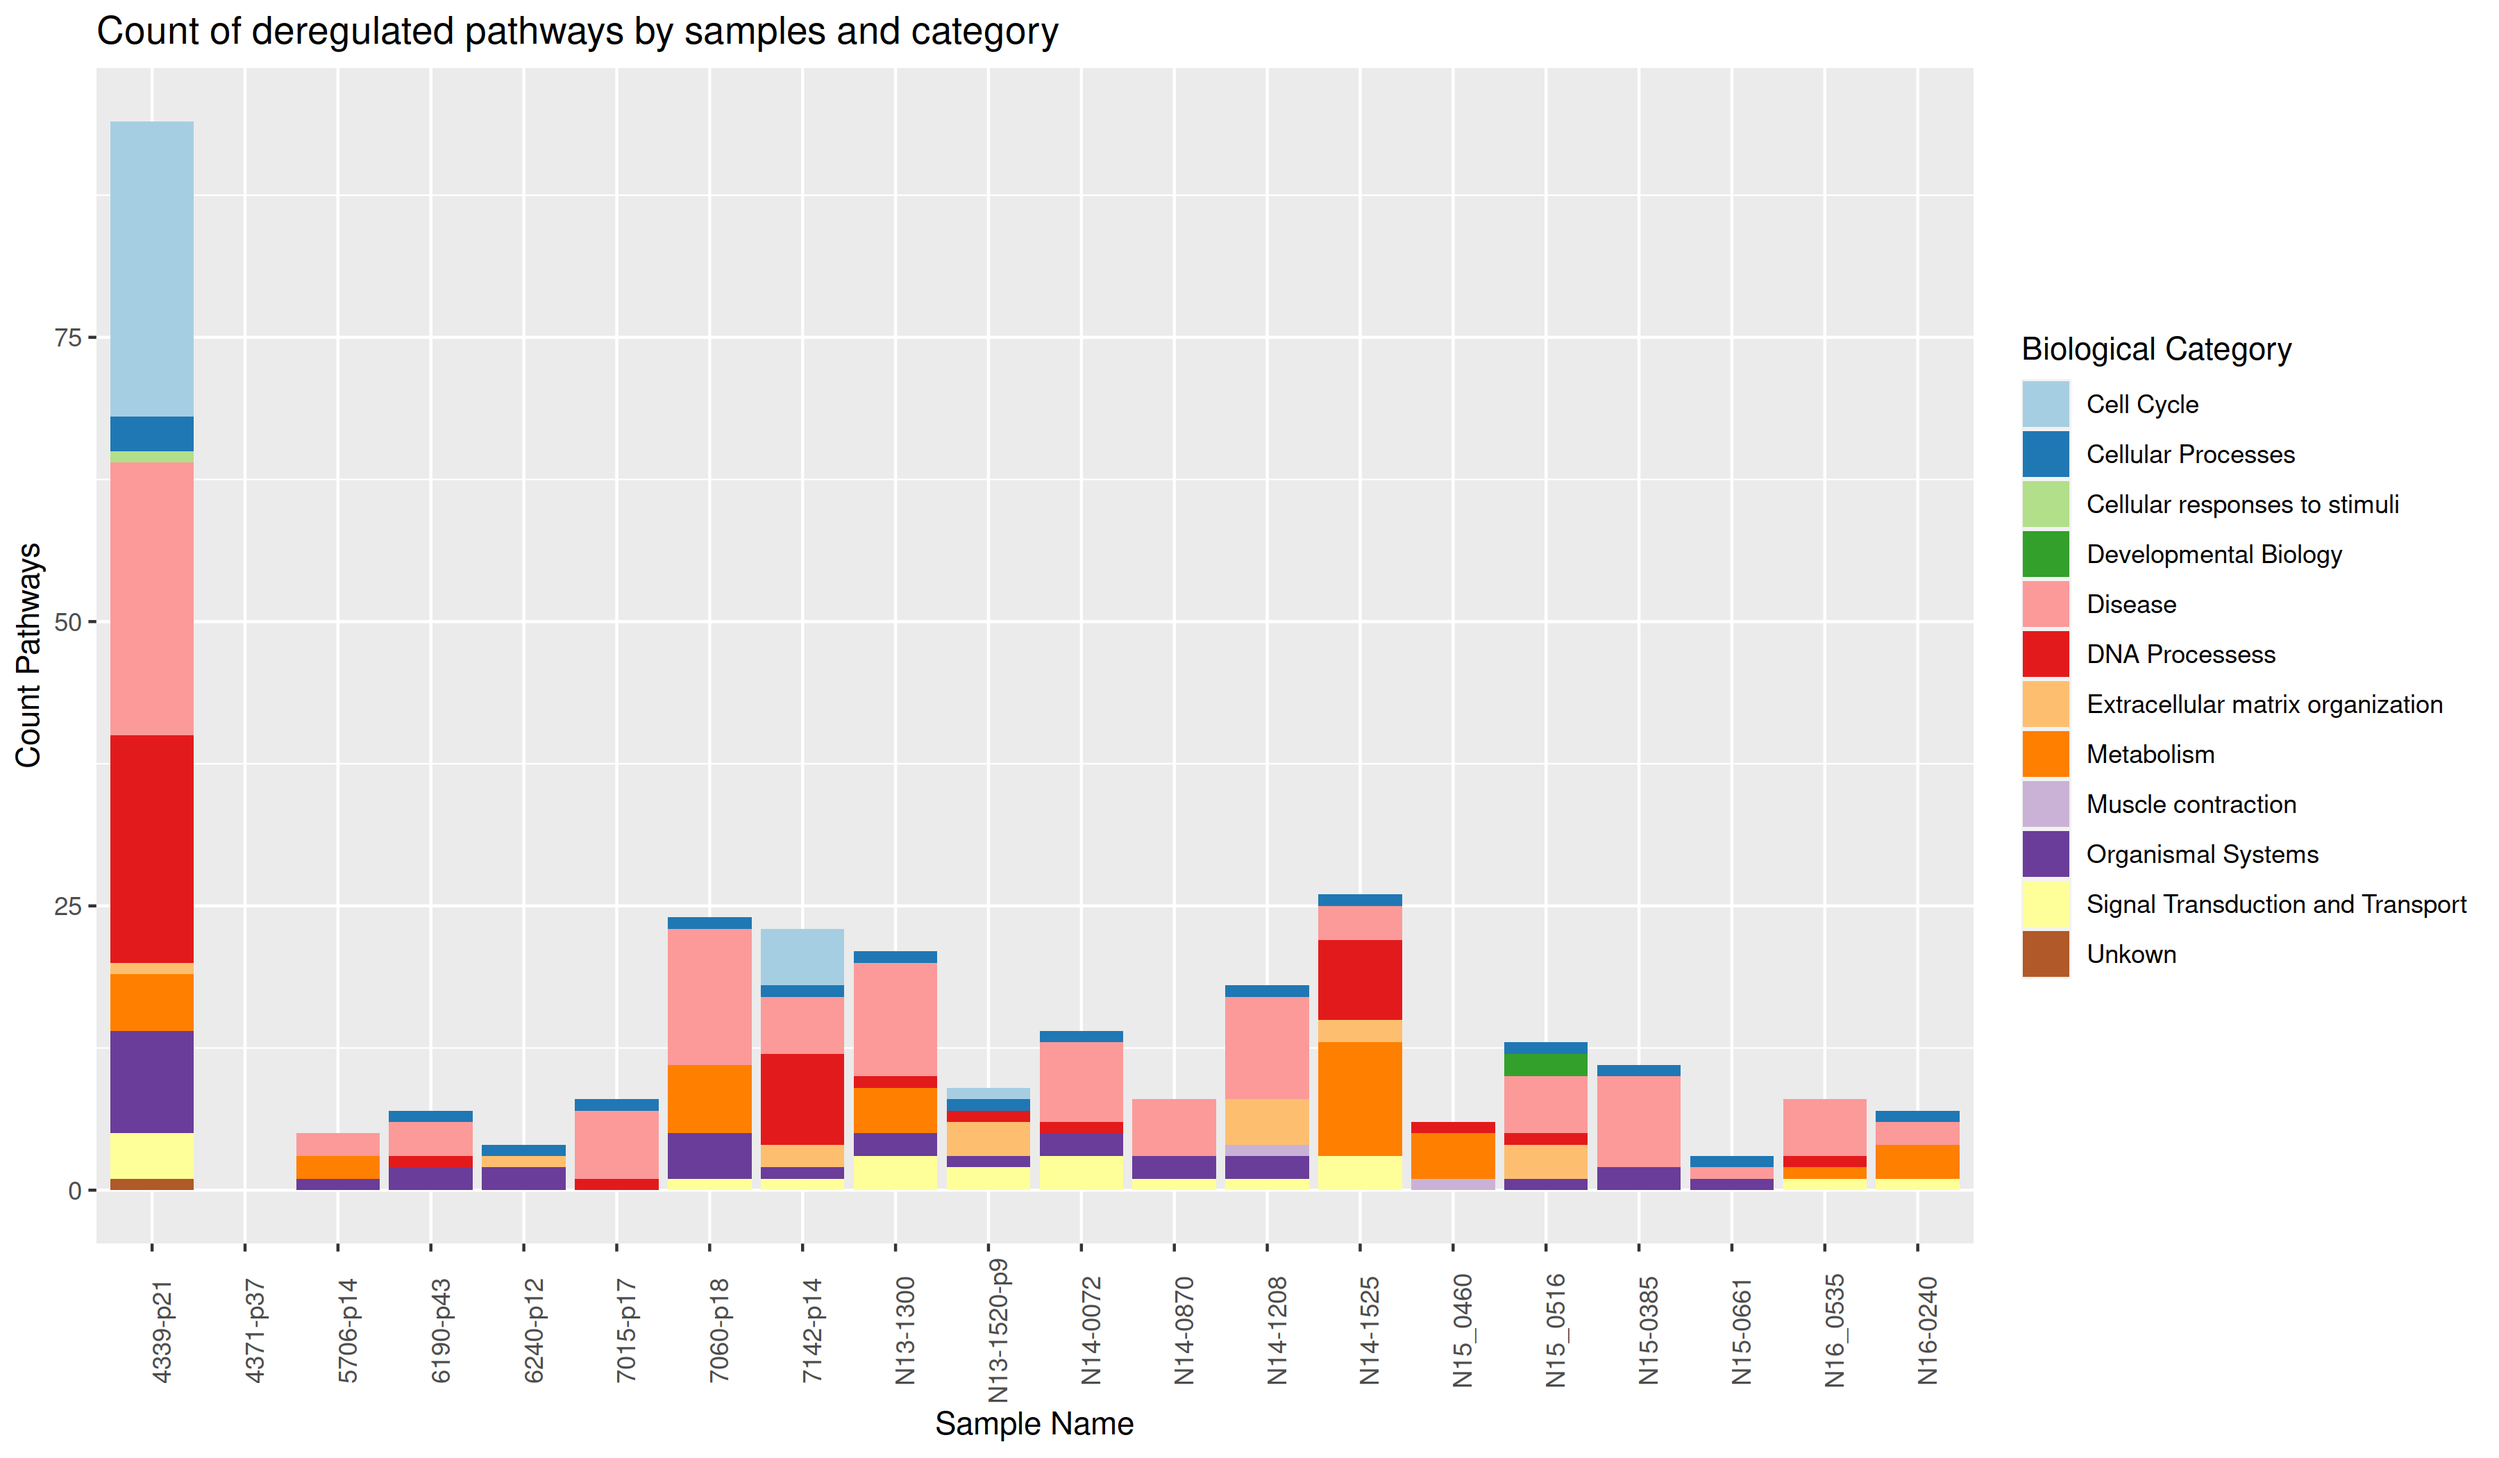
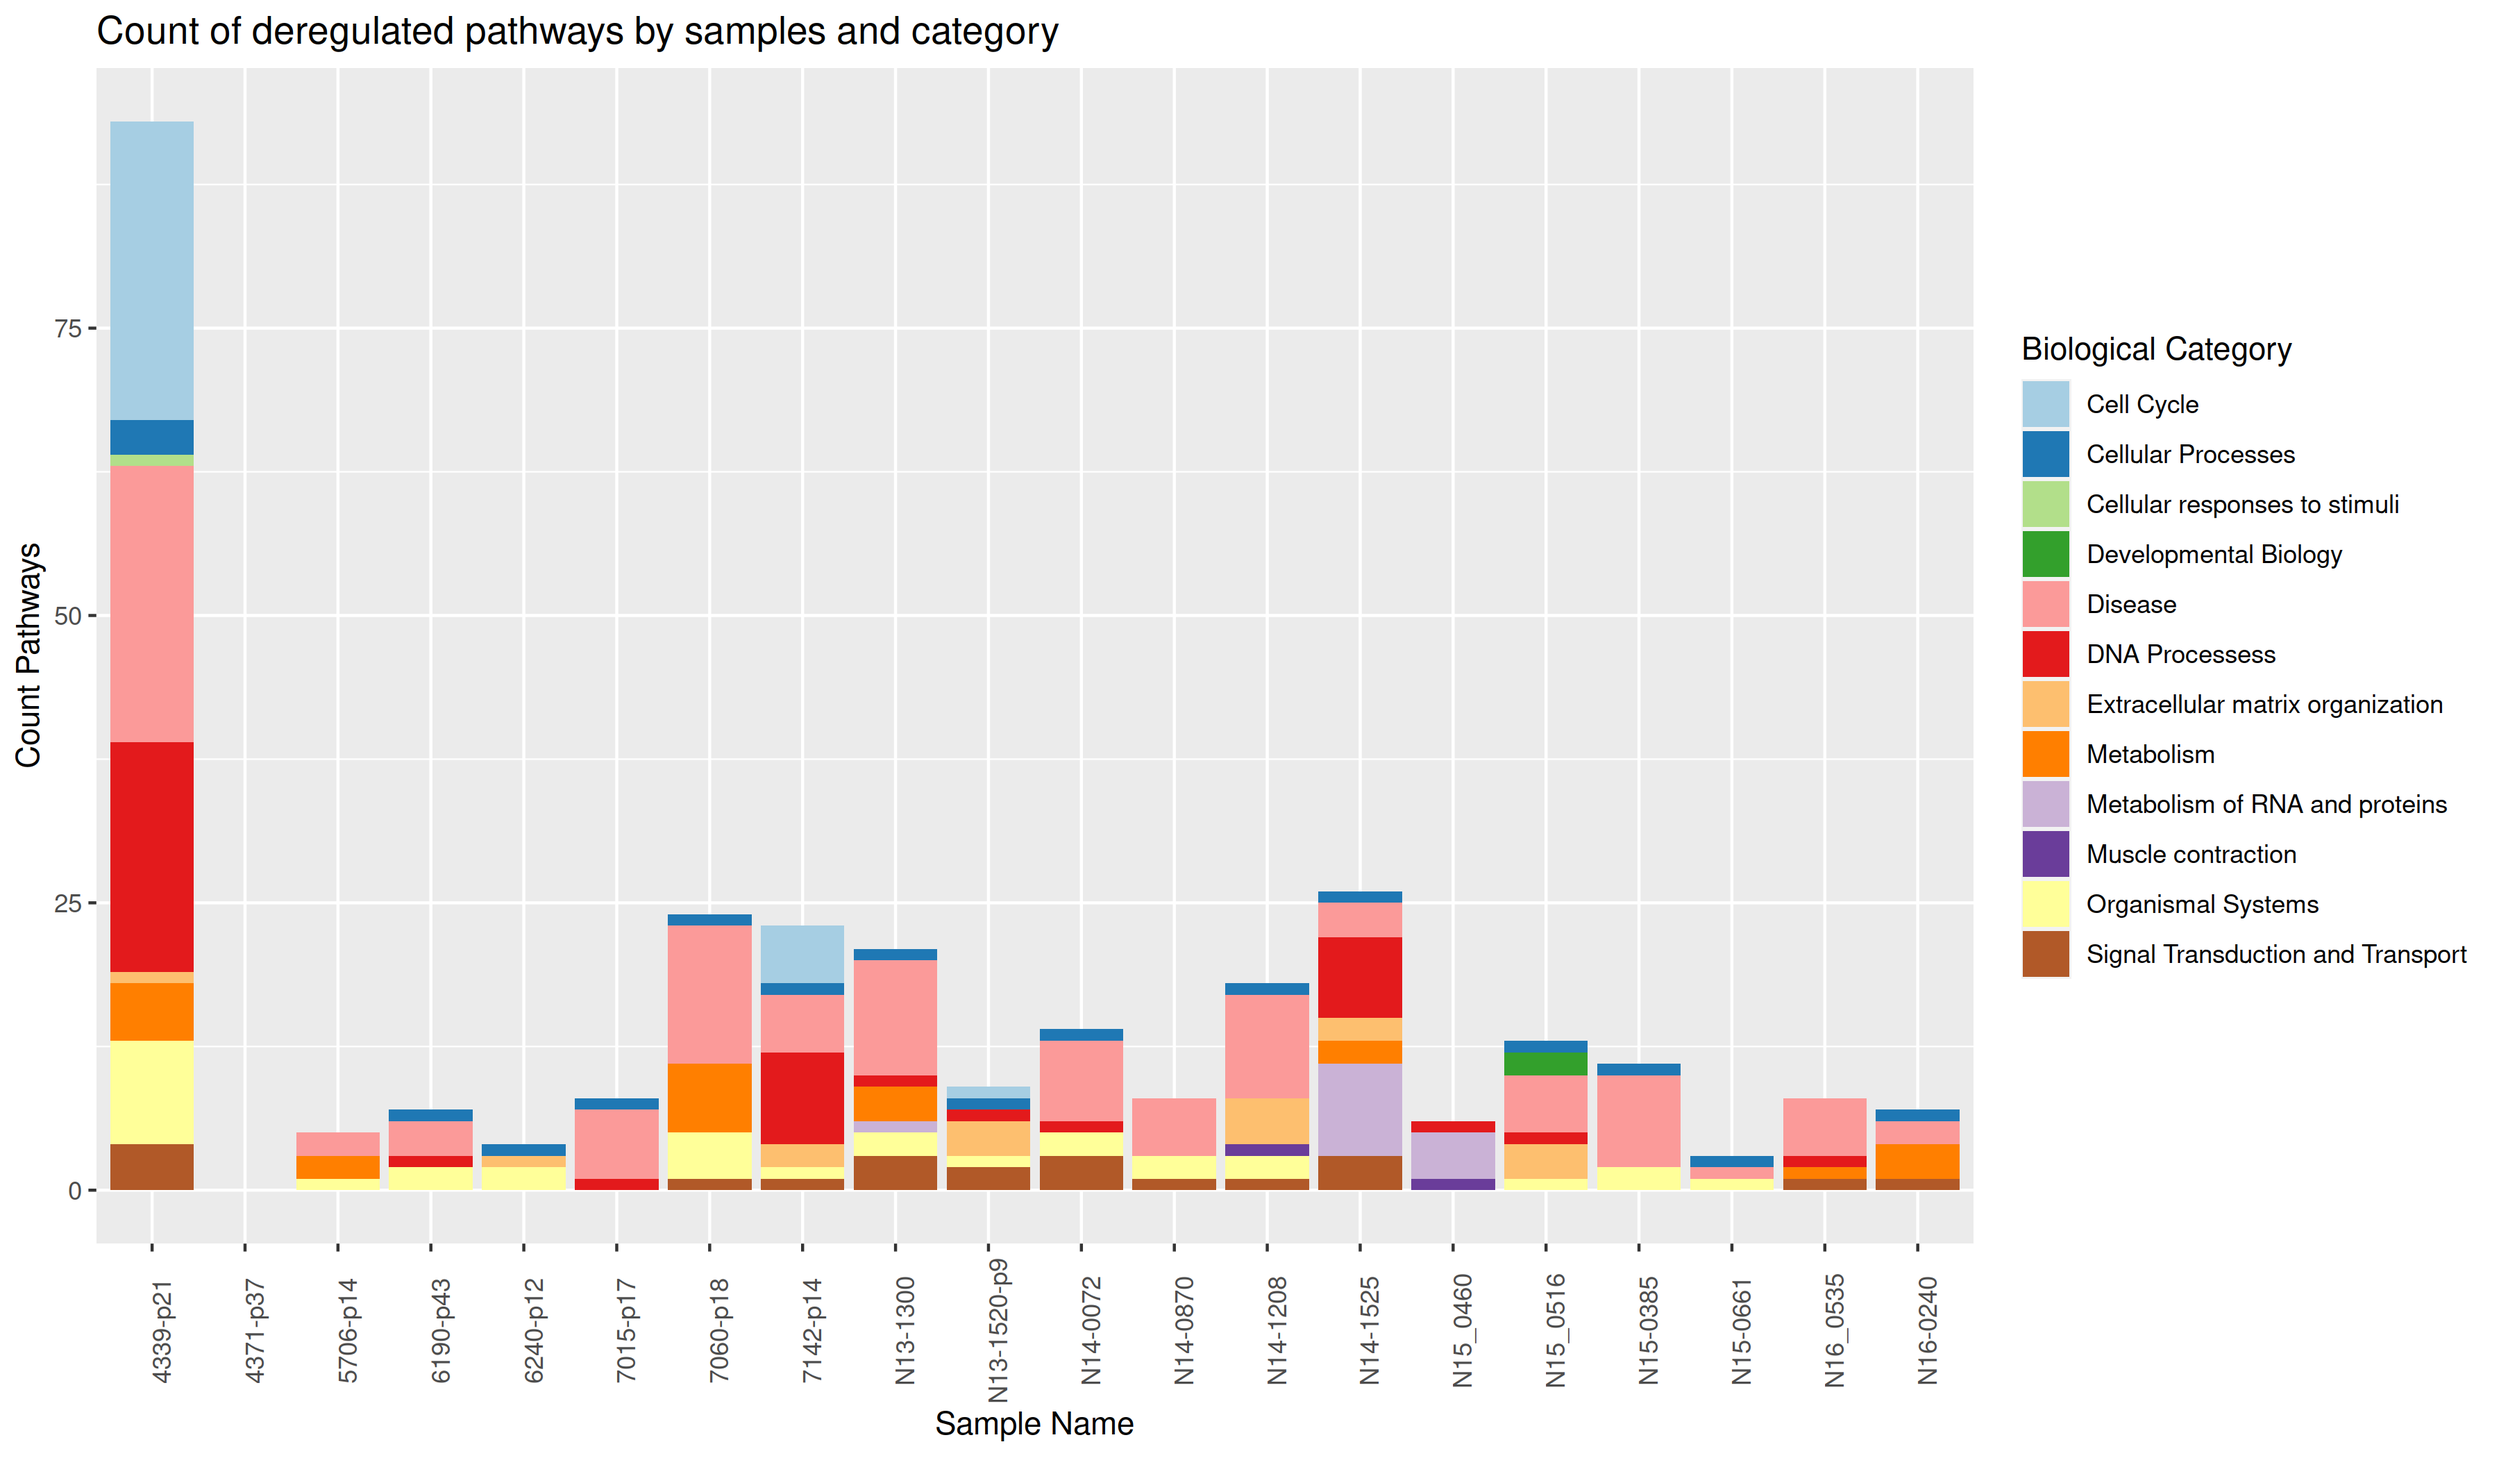
PIE Chart explanation and better barplot

diff --git a/manuscript/result.tex b/manuscript/result.tex
@@ -35,6 +35,28 @@ Interestingly, \textit{Regulation of TP53 activity} is found upregulated by \acr
 A study from \acrshort{tcga} on frequent mutations in glioblastoma has shown that p53 signalling is altered in 87\% of the samples and p53 is inactivated by mutation in 35\% of the samples \cite*{McLendon2008}.
 Thus, the regulation of p53 may be upregulated to make up for the lack of activity from the mutated p53.
 
+As can be seen in the figure \ref*{fig:complete-piechart-categ-pdcl}, the most deregulated category in the \acrshort{tcga} dataset is the \textit{Organismal Systems} category which includes biological processes involved in the Immune system, Endocrine system, Circulatory system, Digestive system, Sensory system, etc.
+In the \acrshort{pdcl} dataset, \textit{Cell Cycle} is the most deregulated category in both the global and the personalized analysis (the analysis where each \acrshort{pdcl} samples are compared one by one to all the controls, lower panel in figure \ref*{fig:workflow-diagram-global}).
+The \textit{Signal Transduction}, \textit{Metabolism of RNA and proteins} and the \textit{Cell-Cycle} categories are among the top 5 most deregulated categories in \acrshort{tcga}.
+In comparison, less categories are affected in the global analysis for the \acrshort{pdcl} dataset, with \textit{DNA Processes} and \textit{Cell-Cycle} categories among the top 3 most deregulated categories.
+In both \acrshort{tcga} and the global analysis of \acrshort{pdcl}, the \textit{Disease} category is the second most affected category.
+\begin{figure}
+    \includegraphics[width=\textwidth]{img/complete-piechart-categ-pdcl}
+    \caption{
+        Number of deregulated pathways per category and per analysis.
+        The results are presented for the \acrshort{tcga} dataset, the global analysis and the personalized analysis of the \acrshort{pdcl} dataset.
+        To recall, during the personalized analysis with compared each \acrshort{pdcl} samples against all the controls one by one (lower panel in figure \ref*{fig:workflow-diagram-global}).
+        In the personalized analysis of the \acrshort{pdcl} dataset, only different results can contribute to the number of pathways for a category.
+        Thus, a same pathway that is found deregulated in two different samples will only be counted once.
+        The \textit{Organismal Systems} category includes pathways involved in the Immune system, Endocrine system, Circulatory system, Digestive system, Sensory system, etc.
+        Among all analysis, the \textit{Disease} category is the first or the second most deregulated category.
+        For \acrshort{tcga}, the top 5 most deregulated categories includes \textit{Organismal Systems}, \textit{Signal Transduction and Transport}, \textit{Metabolism of RNA and proteins} and \textit{Cell-Cycle}.
+        While for the \acrshort{pdcl} dataset (global analysis), the most deregulated categories include \textit{Cell-Cycle} and \textit{DNA processeses}.
+        The deregulated pathways in the personalized analysis of the \acrshort{pdcl} dataset mostly belong to the \textit{Cell-Cycle}, \textit{DNA processeses} and \textit{Organismal Systems}, \textit{Metabolism} and \textit{Signal Transduction and Transport}.
+    }
+    \label{fig:complete-piechart-categ-pdcl}
+\end{figure}
+
 \subsubsection{Cell-Cycle}
 
 Two phases of the Cell Cyle are enriched in both datasets : the \textit{S phase} (R-HSA-69242) and the \textit{Mitotic Anaphase} (R-HSA-68882).
@@ -135,6 +157,10 @@ The \textit{Hippo signaling pathway} (path:hsa04392, path:hsa04390) and \textit{
 
 \subsubsection{Differencies in deregulated processes between PDCL samples}
 
+In the global analysis of the \acrshort{pdcl} dataset, only two deregulated pathways are associated with the \textit{Metabolism} and none with the \textit{Metabolism of RNA and proteins} and \textit{Signal Transduction and Transport} (figure \ref*{fig:complete-piechart-categ-pdcl}).
+In contrast, the personnalized analysis of this dataset shows eleven deregulated pathways in \textit{Metabolism} and \textit{Signal Transduction and Transport}, and eight in \textit{Metabolism of RNA and proteins}.
+This seems to indicate that \textit{Metabolism}, \textit{Metabolism of RNA and proteins} and \textit{Signal Transduction and Transport} are biological categories with high heterogeneity in the \acrshort{pdcl} dataset.
+
 \begin{figure}
     \includegraphics[width=\textwidth]{img/barplot-categ-pdcl}
     \caption{
@@ -142,6 +168,7 @@ The \textit{Hippo signaling pathway} (path:hsa04392, path:hsa04390) and \textit{
         Among the samples, the categories frequently affected are involved in Disease, DNA Processesses, Organismal System and Signal Transduction/Transport.
         Sample 4339-p21 is the \acrshort{pdcl} with the biggest number of deregulated pathways, they are mainly involved in the Cell-Cycle or DNA processes (DNA repair and replication).
         No pathways pass the significance threshold in G:Profiler and \acrshort{gsea} at the same time for the samples 4371-p37.
+        The \acrshort{kegg} entry \textit{Biosynthesis of cofactors} (path:hsa01240) is enriched in the sample 4339-p21 but it could not be mapped to a biological category, we remove it from the plot to simplify visualization. 
     }
     \label{fig:barplot-categ-pdcl}
 \end{figure}
